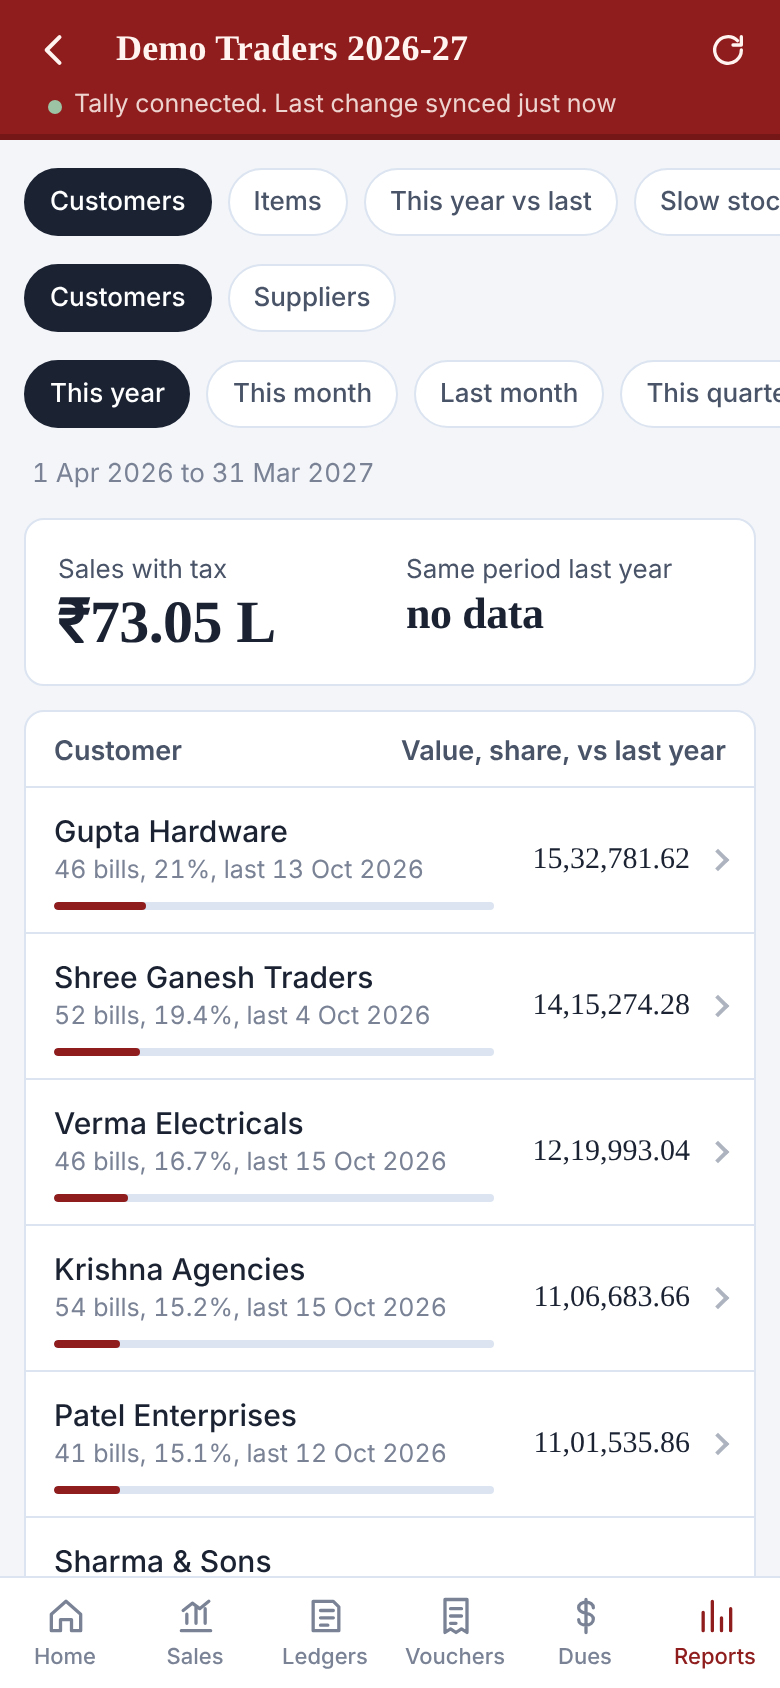
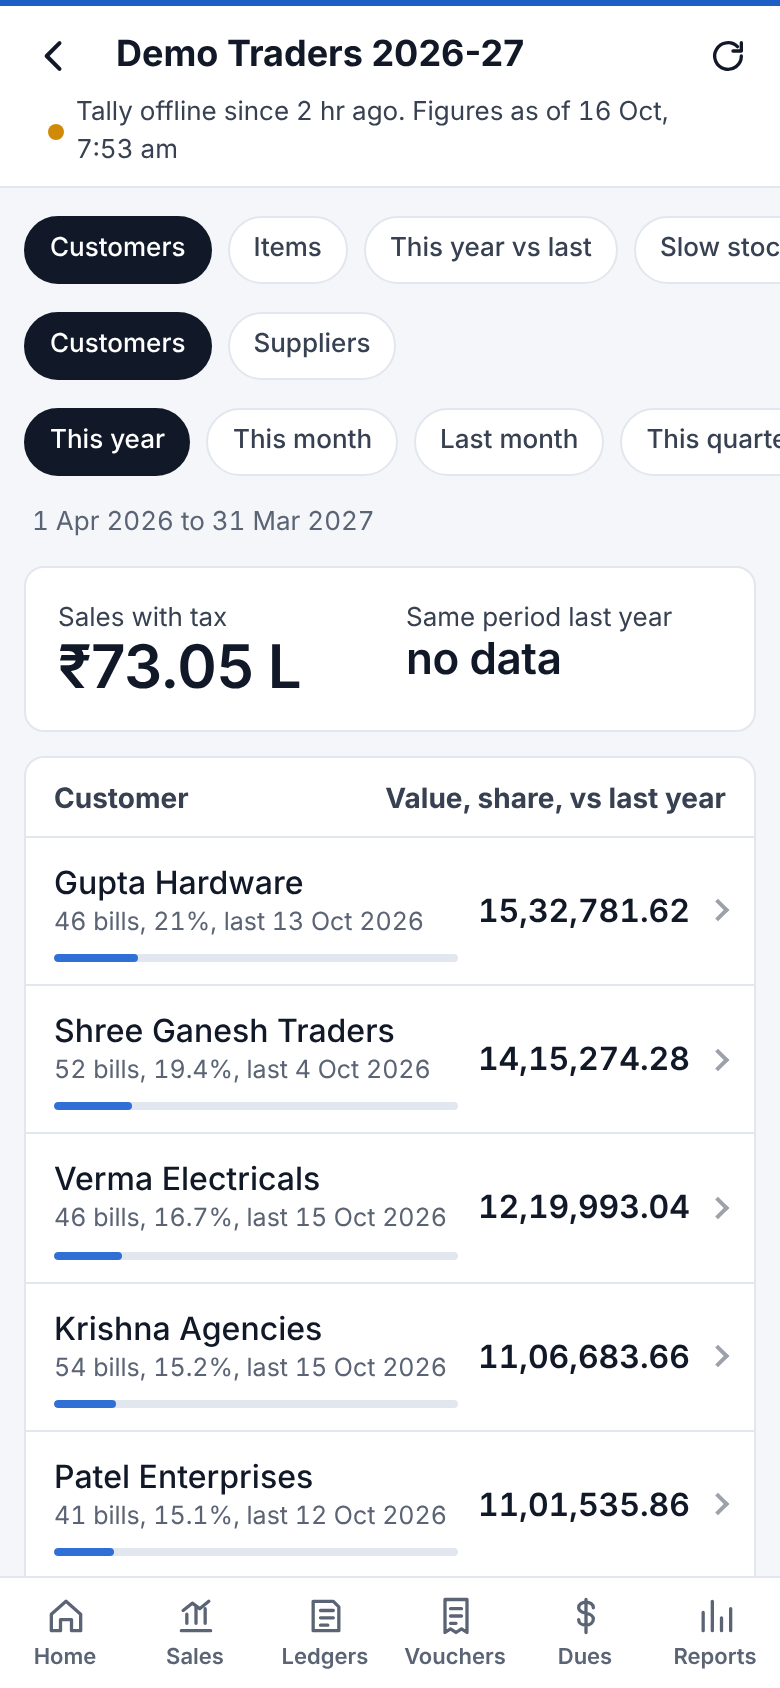
Version 2.6.1: brighter look, phone and computer layouts
- Bright, high-contrast light theme; always opens light (dark only
  when chosen in the app, no longer from the phone's setting).
- Dr amounts red, Cr amounts green.
- Ledger shows the statement first, then pending bills.
- Separate wide-screen layout: menu down the left with the main
  reports, Home in two columns, ledger statement with bills beside it.
- Phones always get the phone layout, even with Chrome's Desktop site on.
- Guide screenshots refreshed.

Claude-Session: https://claude.ai/code/session_019emK1HKKRcUoX1x8Zm8hMC

diff --git a/server/app/static/style.css b/server/app/static/style.css
@@ -1,36 +1,34 @@
 :root {
-  --cover: #8f1d1d;        /* bahi-khata cloth red */
-  --cover-ink: #fff4ef;
+  /* bright ledger: white pages, near-black ink, one clear blue for anything you can tap */
+  --head: #ffffff;         /* header */
+  --head-ink: #111827;
+  --cover: #1d5fc4;        /* accent: buttons, links, the tab you are on */
+  --cover-ink: #ffffff;
   --paper: #ffffff;
-  --sheet: #f3f5f9;        /* the desk the pages sit on */
-  --ink: #1b2333;          /* fountain-pen navy */
-  --ink-2: #4a5468;
-  --ink-3: #7a8396;
-  --rule: #dbe4f0;         /* pale blue ruling */
-  --margin: #e4a5a1;       /* red margin line */
-  --cr: #a8322d;
-  --dr: #1b2333;
-  --good: #1f6f4a;
-  --bar: #8f1d1d;
-  --focus: #2457c5;
-  --age0: #c9ced8; --age1: #f2c4c0; --age2: #e08c85; --age3: #bf4a42; --age4: #7d1a17;
-  --serif: "Source Serif 4", Georgia, "Times New Roman", serif;
+  --sheet: #f4f6f9;        /* the desk the pages sit on */
+  --ink: #111827;
+  --ink-2: #374151;
+  --ink-3: #5b6474;
+  --rule: #e2e7ef;
+  --margin: #e4a5a1;
+  --cr: #b42318;           /* credit / overdue: red, as in a ledger */
+  --dr: #111827;
+  --good: #157347;
+  --debit: #c0261a;
+  --credit: #157347;
+  --bar: #2f6fd6;
+  --bar2: #b9cdf1;         /* last year's bars */
+  --focus: #1d5fc4;
+  --age0: #c9ced8; --age1: #f7c9c4; --age2: #ea958c; --age3: #c9473d; --age4: #8a1c15;
+  --serif: "Hanken Grotesk", system-ui, -apple-system, "Segoe UI", Roboto, sans-serif;
   --sans: "Hanken Grotesk", system-ui, -apple-system, "Segoe UI", Roboto, sans-serif;
   color-scheme: light;
 }
-@media (prefers-color-scheme: dark) {
-  :root:not([data-theme="light"]) {
-    --cover: #5e1414; --cover-ink: #ffece6; --paper: #171c26; --sheet: #0f131a;
-    --ink: #e7eaf1; --ink-2: #b3bacb; --ink-3: #8a93a8; --rule: #2a3344; --margin: #7d3532;
-    --cr: #f08a82; --dr: #e7eaf1; --good: #6cc89a; --bar: #e0716a; --focus: #8fb0ff;
-    --age0: #4a5263; --age1: #5c2c2a; --age2: #8e3a35; --age3: #c9564d; --age4: #f19a92;
-    color-scheme: dark;
-  }
-}
+/* dark only when chosen in the app (Reports, Switch light/dark) - never just because the phone is in dark mode */
 :root[data-theme="dark"] {
-  --cover: #5e1414; --cover-ink: #ffece6; --paper: #171c26; --sheet: #0f131a;
-  --ink: #e7eaf1; --ink-2: #b3bacb; --ink-3: #8a93a8; --rule: #2a3344; --margin: #7d3532;
-  --cr: #f08a82; --dr: #e7eaf1; --good: #6cc89a; --bar: #e0716a; --focus: #8fb0ff;
+  --head: #161b24; --head-ink: #eef1f6; --cover: #82aaff; --cover-ink: #0d1117; --paper: #1a202b; --sheet: #10141b;
+  --ink: #eef1f6; --ink-2: #c5ccda; --ink-3: #9ba5b8; --rule: #2c3546; --margin: #7d3532;
+  --cr: #ff8f85; --dr: #eef1f6; --good: #6fd19e; --debit: #ff8f85; --credit: #6fd19e; --bar: #6f9cf0; --bar2: #34476b; --focus: #82aaff;
   --age0: #4a5263; --age1: #5c2c2a; --age2: #8e3a35; --age3: #c9564d; --age4: #f19a92;
   color-scheme: dark;
 }
@@ -39,7 +37,7 @@
 html { -webkit-text-size-adjust: 100%; }
 body {
   margin: 0; background: var(--sheet); color: var(--ink);
-  font: 400 15px/1.45 var(--sans); font-variant-numeric: tabular-nums;
+  font: 400 16px/1.45 var(--sans); font-variant-numeric: tabular-nums;
   padding-bottom: calc(68px + env(safe-area-inset-bottom));
 }
 button, input, select { font: inherit; color: inherit; }
@@ -49,21 +47,21 @@ a { color: inherit; }
 
 /* ---------- cover (header) */
 #cover {
-  position: sticky; top: 0; z-index: 5; background: var(--cover); color: var(--cover-ink);
+  position: sticky; top: 0; z-index: 5; background: var(--head); color: var(--head-ink);
   padding: calc(env(safe-area-inset-top) + 6px) 8px 8px;
-  box-shadow: inset 0 -3px 0 rgba(0,0,0,.18);
+  border-top: 3px solid var(--cover); border-bottom: 1px solid var(--rule);
 }
 .cover-row { display: flex; align-items: center; gap: 4px; max-width: 680px; margin: 0 auto; }
 .company {
   flex: 1; min-width: 0; text-align: left; background: none; border: 0; padding: 6px 8px;
-  font: 600 18px/1.2 var(--serif); letter-spacing: .005em; white-space: nowrap; overflow: hidden; text-overflow: ellipsis;
+  font: 700 18px/1.2 var(--sans); letter-spacing: 0; white-space: nowrap; overflow: hidden; text-overflow: ellipsis;
   cursor: pointer;
 }
 .icon-btn { background: none; border: 0; padding: 8px; display: grid; place-items: center; cursor: pointer; border-radius: 8px; color: inherit; }
-.icon-btn:active { background: rgba(255,255,255,.12); }
-.status { max-width: 680px; margin: 0 auto; padding: 0 16px; font-size: 12.5px; opacity: .85; display: flex; align-items: center; gap: 6px; }
-.status .dot { width: 7px; height: 7px; border-radius: 50%; background: #9fe0bb; flex: none; }
-.status .dot.off { background: #f4c06a; }
+.icon-btn:active { background: var(--rule); }
+.status { max-width: 680px; margin: 0 auto; padding: 0 16px; font-size: 13px; color: var(--ink-2); display: flex; align-items: center; gap: 6px; }
+.status .dot { width: 8px; height: 8px; border-radius: 50%; background: #1f9d55; flex: none; }
+.status .dot.off { background: #d08a0a; }
 .offline { background: #fff3cd; color: #5c4400; font-size: 13px; padding: 8px 16px; text-align: center; }
 
 main { max-width: 680px; margin: 0 auto; padding: 14px 12px 24px; outline: none; }
@@ -75,26 +73,26 @@ main { max-width: 680px; margin: 0 auto; padding: 14px 12px 24px; outline: none;
 }
 #tabs a {
   flex: 1; display: flex; flex-direction: column; align-items: center; gap: 2px; padding: 8px 0 7px;
-  text-decoration: none; font-size: 11.5px; font-weight: 500; color: var(--ink-3);
+  text-decoration: none; font-size: 12px; font-weight: 600; color: var(--ink-3);
 }
 #tabs svg { width: 22px; height: 22px; fill: none; stroke: currentColor; stroke-width: 1.8; stroke-linecap: round; stroke-linejoin: round; }
 #tabs a.on { color: var(--cover); }
-@media (prefers-color-scheme: dark) { :root:not([data-theme="light"]) #tabs a.on { color: var(--bar); } }
 
 /* ---------- pages & blocks */
 .page { background: var(--paper); border-radius: 10px; margin-bottom: 12px; overflow: hidden; border: 1px solid var(--rule); }
 .page > h2, .block-title {
-  font: 600 13.5px/1.3 var(--sans); color: var(--ink-2); margin: 0; padding: 12px 14px 8px;
+  font: 700 14px/1.3 var(--sans); color: var(--ink-2); margin: 0; padding: 12px 14px 8px;
   display: flex; justify-content: space-between; align-items: baseline; gap: 8px;
 }
 .block-title a, .page > h2 a { font-weight: 500; color: var(--cover); text-decoration: none; font-size: 13px; }
-@media (prefers-color-scheme: dark) { :root:not([data-theme="light"]) .block-title a, :root:not([data-theme="light"]) .vhead .vtype { color: var(--bar); } }
 h1.title { font: 600 22px/1.25 var(--serif); margin: 2px 4px 4px; overflow-wrap: anywhere; }
 .subtitle { color: var(--ink-3); font-size: 13px; margin: 0 4px 12px; }
 
-.amt { font-family: var(--serif); font-weight: 500; white-space: nowrap; }
-.amt .side { font-family: var(--sans); font-size: .72em; font-weight: 600; margin-left: 3px; color: var(--ink-3); }
-.amt.cr .side { color: var(--cr); }
+.amt { font-family: var(--sans); font-weight: 600; white-space: nowrap; }
+.amt .side { font-family: var(--sans); font-size: .72em; font-weight: 700; margin-left: 3px; color: inherit; }
+/* Dr in red, Cr in green */
+.amt.dr { color: var(--debit); }
+.amt.cr { color: var(--credit); }
 
 /* hero: what you'll receive vs. what you owe */
 .hero { padding: 16px 16px 14px; display: grid; grid-template-columns: 1fr 1fr; gap: 4px 16px; }
@@ -318,3 +316,45 @@ a.bill:active { background: var(--rule); }
 .est.bad { color: var(--cr); }
 .entrybar .actions { padding: 12px 14px; }
 .login input[type=text] { margin-bottom: 8px; }
+
+/* ---------- computer (wide screen) layout: menu down the left, content uses the width */
+.wide-only { display: none !important; }
+@media (min-width: 1000px) and (pointer: fine), (min-width: 1100px) {
+  body { padding-bottom: 0; padding-left: 240px; font-size: 15.5px; }
+  #cover { padding-left: 24px; padding-right: 24px; }
+  .cover-row, .status { max-width: 1180px; margin-left: 0; }
+  #tabs {
+    inset: 0 auto 0 0; width: 240px; flex-direction: column; justify-content: flex-start; overflow-y: auto;
+    border-top: 0; border-right: 1px solid var(--rule); padding: 14px 10px 20px; gap: 2px;
+  }
+  #tabs::before { content: "Bahi"; font: 800 22px/1 var(--sans); color: var(--cover); padding: 6px 12px 18px; }
+  #tabs a { flex: none; flex-direction: row; gap: 12px; padding: 10px 12px; font-size: 15px; font-weight: 600; color: var(--ink-2); border-radius: 8px; }
+  #tabs a:hover { background: var(--sheet); }
+  #tabs a.on { background: color-mix(in srgb, var(--cover) 10%, transparent); color: var(--cover); }
+  #tabs a[hidden] { display: none !important; }
+  #tabs svg { width: 20px; height: 20px; }
+  .wide-only { display: flex !important; }
+  .wide-only[hidden] { display: none !important; }
+  .navhead { font-size: 12px; font-weight: 700; letter-spacing: .06em; text-transform: uppercase; color: var(--ink-3); padding: 18px 12px 6px; }
+  main { max-width: 1180px; margin: 0; padding: 22px 28px 40px; }
+  h1.title { font-size: 26px; }
+  .hero .big { font-size: 34px; }
+  .toolbar { margin: 0 0 14px; padding: 0; flex-wrap: wrap; overflow: visible; }
+
+  /* Home: two columns of cards */
+  main[data-view="home"] { display: grid; grid-template-columns: 1fr 1fr; gap: 16px; align-items: start; }
+  main[data-view="home"] > * { margin: 0; }
+  main[data-view="home"] > .entrybar, main[data-view="home"] > h1 { grid-column: 1 / -1; }
+
+  /* Ledger: statement on the left, pending bills beside it */
+  main[data-view="ledger"] { display: grid; grid-template-columns: minmax(0, 1fr) 380px; column-gap: 18px; align-items: start; }
+  main[data-view="ledger"] > * { grid-column: 1 / -1; }
+  main[data-view="ledger"] > .stmt { grid-column: 1; }
+  main[data-view="ledger"] > .billsec { grid-column: 2; position: sticky; top: 90px; }
+
+  /* lists read better a little roomier */
+  .row { padding-top: 12px; padding-bottom: 12px; }
+  .row:hover, a.bill:hover, .entry:hover { background: var(--sheet); }
+  .login { min-height: 80vh; }
+  body:has(.login) { padding-left: 0; }
+}

diff --git a/server/app/static/app.js b/server/app/static/app.js
@@ -1,6 +1,6 @@
 /* Bahi — phone app for Tally data synced to your server */
 "use strict";
-const APP_VERSION = "2.6";
+const APP_VERSION = "2.6.1";
 
 const $ = (s, el = document) => el.querySelector(s);
 const view = $("#view");
@@ -14,7 +14,8 @@ const ENTRY = { receipt: ["Receipt", "e_receipt"], payment: ["Payment", "e_payme
 const entryKinds = () => Object.keys(ENTRY).filter((k) => can(ENTRY[k][1]));
 function applyTabs() {
   const show = { home: true, sales: can("sales"), parties: canLedgers(), vouchers: can("vouchers"), dues: can("dues"), reports: true };
-  document.querySelectorAll("#tabs a").forEach((a) => a.hidden = !show[a.dataset.tab]);
+  document.querySelectorAll("#tabs a[data-tab]").forEach((a) => a.hidden = !show[a.dataset.tab]);
+  document.querySelectorAll("#tabs a[data-need]").forEach((a) => a.hidden = !a.dataset.need.split(" ").some((p) => p === "owner" ? S.me.owner : can(p)));
 }
 function entryBar() {
   const ks = entryKinds();
@@ -165,7 +166,9 @@ function setTitle(back) {
   const tab = (location.hash.split("/")[1] || "home").split("?")[0];
   const map = { "": "home", ledger: "parties", group: "parties", item: "reports", daybook: "reports", voucher: "vouchers", pl: "reports", gst: "reports", check: "reports", settings: "reports", analysis: "reports", bs: "reports", cashbook: "reports", collect: "dues", entries: "reports", new: "home", day: "sales", stock: "reports", groups: "reports" };
   const on = map[tab] || tab;
-  document.querySelectorAll("#tabs a").forEach((a) => a.classList.toggle("on", a.dataset.tab === on));
+  document.querySelectorAll("#tabs a[data-tab]").forEach((a) => a.classList.toggle("on", a.dataset.tab === on));
+  document.querySelectorAll("#tabs a[data-route]").forEach((a) => a.classList.toggle("on", a.dataset.route === tab));
+  if (document.querySelector(`#tabs a[data-route="${tab}"]`)) document.querySelectorAll("#tabs a[data-tab]").forEach((a) => a.classList.remove("on"));
 }
 
 /* ---------------------------------------------------------------- views */
@@ -339,14 +342,12 @@ async function vLedger(name) {
       <div class="totals">
         <div><div class="label">Opening</div>${drcr(d.opening)}</div>
         <div><div class="label">Closing</div>${drcr(d.closing)}</div>
-        <div><div class="label">Debits</div>${money(d.debit)}</div>
-        <div><div class="label">Credits</div>${money(d.credit)}</div>
+        <div><div class="label">Debits</div>${money(d.debit, "dr")}</div>
+        <div><div class="label">Credits</div>${money(d.credit, "cr")}</div>
       </div>
     </section>
-    ${pending.length ? `<section class="page"><div class="block-title">Pending bills <span>${overdue.length ? `${overdue.length} overdue` : ""}</span></div>${billRows(pending.slice(0, 5))}
-      ${pending.length > 5 ? `<div id="morebills" hidden>${billRows(pending.slice(5))}</div><button class="row" id="showbills" style="justify-content:center;color:var(--ink-2);font-weight:500">Show all ${pending.length} bills</button>` : ""}</section>` : ""}
     ${d.entries.length > 1 ? sortChips("esorts", [["old", "Oldest first"], ["new", "Newest first"], ["amount", "Largest amount"]], S.esort) : ""}
-    <section class="page ruled">
+    <section class="page ruled stmt">
       <div class="carry"><span>Opening balance</span>${drcr(d.opening)}</div>
       ${sortEntries(d.entries).map((e) => `<a class="entry" href="#/voucher/${e.id}">
           <span class="d">${fdate(e.date)}</span>
@@ -354,7 +355,9 @@ async function vLedger(name) {
           <span class="v">${h(e.vtype)} ${h(e.number)}</span><span class="bal">Bal ${drcr(e.balance)}</span>
         </a>`).join("") || '<div class="empty">No entries in this period.</div>'}
       <div class="closing"><span>Closing balance</span>${drcr(d.closing)}</div>
-    </section>`;
+    </section>
+    ${pending.length ? `<section class="page billsec"><div class="block-title">Pending bills <span>${overdue.length ? `${overdue.length} overdue` : ""}</span></div>${billRows(pending.slice(0, 5))}
+      ${pending.length > 5 ? `<div id="morebills" hidden>${billRows(pending.slice(5))}</div><button class="row" id="showbills" style="justify-content:center;color:var(--ink-2);font-weight:500">Show all ${pending.length} bills</button>` : ""}</section>` : ""}`;
   wirePeriod(d.from, d.to);
   $("#sharepdf").onclick = () => sharePdf(pdfUrl, `${L.name} statement`);
   view.querySelectorAll("#esorts [data-sort]").forEach((b) => b.onclick = () => {
@@ -527,7 +530,7 @@ function vReports() {
   if ($("#syncrow")) $("#syncrow").onclick = () => syncNow();
   $("#logout").onclick = async () => { await fetch("/api/logout"); location.hash = "#/"; showLogin(); };
   $("#theme").onclick = () => {
-    const cur = document.documentElement.dataset.theme || (matchMedia("(prefers-color-scheme: dark)").matches ? "dark" : "light");
+    const cur = document.documentElement.dataset.theme || "light";
     const next = cur === "dark" ? "light" : "dark";
     document.documentElement.dataset.theme = next;
     try { localStorage.setItem("theme", next); } catch (e) {}
@@ -761,7 +764,7 @@ async function vAnalysis(tab) {
         <div><div class="label">${d.last_label}</div><div class="big" style="font-size:22px">${d.has_prev ? short(d.last_total) : "not synced"}</div></div></div>
         ${ch !== null ? `<div class="note">${ch >= 0 ? "Up" : "Down"} ${Math.abs(ch)}% on last year so far (last year's figure is the full year).</div>` : ""}
         <div class="chart" id="ychart"></div>
-        <div class="legend"><span><i style="background:var(--bar)"></i>${d.this_label}</span><span><i style="background:var(--age1)"></i>${d.last_label}</span></div></section>
+        <div class="legend"><span><i style="background:var(--bar)"></i>${d.this_label}</span><span><i style="background:var(--bar2)"></i>${d.last_label}</span></div></section>
       <section class="page"><div class="block-title"><span>Month</span><span>${d.this_label} / ${d.last_label}</span></div>
       ${d.months.map((m) => { const c = m.last ? Math.round((m.this - m.last) / m.last * 100) : null;
         return `<div class="row" style="cursor:default"><div class="main name">${mon(m.month)}</div><div class="end">${money(m.this)}<div class="meta">${d.has_prev ? money(m.last) : ""}${c !== null && m.this ? ` <span class="${c >= 0 ? "up" : "down"}">${c >= 0 ? "▲" : "▼"}${Math.abs(c)}%</span>` : ""}</div></div></div>`; }).join("")}
@@ -793,7 +796,7 @@ function drawYears(el, rows) {
     const x0 = i * slot + (slot - bw * 2 - 2) / 2;
     const one = (v, x, fill, label) => { const hh = Math.max(v > 0 ? 2 : 0, (v / max) * (H - padB - padT)); const y = H - padB - hh, rad = Math.min(3, bw / 2, hh);
       return hh ? `<path d="M${x},${H - padB} V${y + rad} Q${x},${y} ${x + rad},${y} H${x + bw - rad} Q${x + bw},${y} ${x + bw},${y + rad} V${H - padB} Z" fill="${fill}"><title>${label}: ${rupees(v, false)}</title></path>` : ""; };
-    return one(r.last, x0, "var(--age1)", MON[+r.month - 1] + " last year") + one(r.this, x0 + bw + 2, "var(--bar)", MON[+r.month - 1] + " this year") +
+    return one(r.last, x0, "var(--bar2)", MON[+r.month - 1] + " last year") + one(r.this, x0 + bw + 2, "var(--bar)", MON[+r.month - 1] + " this year") +
       `<text x="${i * slot + slot / 2}" y="${H - 6}" text-anchor="middle" font-size="11" fill="var(--ink-3)">${MON[+r.month - 1][0]}</text>`;
   }).join("");
   el.innerHTML = `<svg viewBox="0 0 ${W} ${H}" aria-label="Monthly sales, this year against last year"><line x1="0" x2="${W}" y1="${H - padB}" y2="${H - padB}" stroke="var(--rule)"/>${bars}</svg>`;
@@ -1358,6 +1361,7 @@ async function route() {
     view.innerHTML = '<div class="empty">No data yet. Run Setup on the Tally PC to send your first sync.</div>';
     return;
   }
+  view.dataset.view = parts[0] || "home";
   loading();
   try {
     switch (parts[0]) {

diff --git a/server/app/static/index.html b/server/app/static/index.html
@@ -4,13 +4,28 @@
 <meta charset="utf-8">
 <meta name="viewport" content="width=device-width, initial-scale=1, viewport-fit=cover">
 <title>Bahi — Tally on your phone</title>
-<meta name="theme-color" content="#8f1d1d">
+<meta name="theme-color" content="#ffffff">
+<script>
+/* Chrome's "Desktop site" lays the page out 980px wide and shrinks it. On a phone, scale it back
+   up so the app always shows its phone layout. */
+(function () {
+  function fit() {
+    try {
+      var de = document.documentElement, sw = Math.min(screen.width, window.outerWidth || screen.width);
+      de.style.zoom = "";
+      var touch = matchMedia("(pointer: coarse)").matches || "ontouchstart" in window;
+      if (touch && sw > 0 && sw < 820 && window.innerWidth > sw * 1.3) de.style.zoom = (window.innerWidth / sw).toFixed(3);
+    } catch (e) {}
+  }
+  fit(); addEventListener("resize", fit); addEventListener("orientationchange", function () { setTimeout(fit, 300); });
+})();
+</script>
 <link rel="manifest" href="/manifest.webmanifest">
 <link rel="icon" href="/icon.svg" type="image/svg+xml">
 <link rel="apple-touch-icon" href="/icon-192.png">
 <link rel="preconnect" href="https://fonts.googleapis.com">
 <link rel="preconnect" href="https://fonts.gstatic.com" crossorigin>
-<link href="https://fonts.googleapis.com/css2?family=Hanken+Grotesk:wght@400;500;600;700&family=Source+Serif+4:opsz,wght@8..60,500;8..60,600&display=swap" rel="stylesheet">
+<link href="https://fonts.googleapis.com/css2?family=Hanken+Grotesk:wght@400;500;600;700&display=swap" rel="stylesheet">
 <link rel="stylesheet" href="/style.css">
 </head>
 <body>
@@ -35,6 +50,16 @@
   <a href="#/vouchers" data-tab="vouchers"><svg viewBox="0 0 24 24"><path d="M6 3h12v18l-3-2-3 2-3-2-3 2z M9 8h6 M9 12h6 M9 16h3"/></svg>Vouchers</a>
   <a href="#/dues" data-tab="dues"><svg viewBox="0 0 24 24"><path d="M12 3v18 M16 7.5c0-1.9-1.8-3-4-3s-4 1.1-4 3 1.8 2.6 4 3 4 1.2 4 3.2-1.8 3.3-4 3.3-4-1.2-4-3"/></svg>Dues</a>
   <a href="#/reports" data-tab="reports"><svg viewBox="0 0 24 24"><path d="M5 20V10 M10 20V4 M15 20v-7 M20 20V8"/></svg>Reports</a>
+  <div class="wide-only navhead">Reports</div>
+  <a class="wide-only" href="#/bs" data-route="bs" data-need="accounts"><svg viewBox="0 0 24 24"><path d="M4 5h16v14H4z M12 5v14 M6 9h4 M14 9h4 M6 13h4 M14 13h4"/></svg>Balance Sheet</a>
+  <a class="wide-only" href="#/pl" data-route="pl" data-need="accounts"><svg viewBox="0 0 24 24"><path d="M4 19h16 M7 15l4-4 3 3 5-6"/></svg>Profit &amp; Loss</a>
+  <a class="wide-only" href="#/cashbook" data-route="cashbook" data-need="accounts"><svg viewBox="0 0 24 24"><path d="M3 7h18v10H3z M12 12m-2.5 0a2.5 2.5 0 1 0 5 0a2.5 2.5 0 1 0-5 0"/></svg>Cash and bank</a>
+  <a class="wide-only" href="#/analysis" data-route="analysis" data-need="accounts"><svg viewBox="0 0 24 24"><path d="M5 20V10 M10 20V4 M15 20v-7 M20 20V8"/></svg>Sales analysis</a>
+  <a class="wide-only" href="#/gst" data-route="gst" data-need="accounts"><svg viewBox="0 0 24 24"><path d="M6 3h12v18H6z M9 8h6 M9 12h6 M9 16h3"/></svg>GST summary</a>
+  <a class="wide-only" href="#/stock" data-route="stock" data-need="stock"><svg viewBox="0 0 24 24"><path d="M4 8l8-4 8 4v8l-8 4-8-4z M4 8l8 4 8-4 M12 12v8"/></svg>Stock</a>
+  <a class="wide-only" href="#/collect" data-route="collect" data-need="dues"><svg viewBox="0 0 24 24"><path d="M12 7v5l3 2 M12 21a9 9 0 1 0 0-18 9 9 0 0 0 0 18"/></svg>Follow-up list</a>
+  <a class="wide-only" href="#/entries" data-route="entries" data-need="owner e_receipt e_payment e_order"><svg viewBox="0 0 24 24"><path d="M12 5v14 M5 12h14"/></svg>Entries from phone</a>
+  <a class="wide-only" href="#/settings" data-route="settings" data-need="owner"><svg viewBox="0 0 24 24"><path d="M12 9a3 3 0 1 0 0 6 3 3 0 0 0 0-6 M19 12h2 M3 12h2 M12 3v2 M12 19v2 M17 7l1.4-1.4 M5.6 18.4L7 17 M17 17l1.4 1.4 M5.6 5.6L7 7"/></svg>Settings</a>
 </nav>
 <dialog id="sheet"></dialog>
 <script src="/app.js"></script>

diff --git a/server/app/static/sw.js b/server/app/static/sw.js
@@ -1,5 +1,5 @@
 /* Bahi service worker: always try the server first, fall back to the saved copy when offline */
-const SHELL = "bahi-shell-v8", DATA = "bahi-data-v1";
+const SHELL = "bahi-shell-v10", DATA = "bahi-data-v1";
 const FILES = ["/", "/index.html", "/style.css", "/app.js", "/manifest.webmanifest", "/icon.svg", "/icon-192.png", "/icon-512.png"];
 
 self.addEventListener("install", (e) => {

diff --git a/server/app/main.py b/server/app/main.py
@@ -39,7 +39,7 @@ APP_PASSWORD = os.environ.get("APP_PASSWORD", "")
 SYNC_TOKEN = os.environ.get("SYNC_TOKEN", "")
 PORT = int(os.environ.get("PORT", "8780"))
 SESSION_DAYS = 30
-APP_VERSION = "2.6"
+APP_VERSION = "2.6.1"
 MAX_PART = 200 * 1024 * 1024
 RUN_RE = re.compile(r"^[A-Za-z0-9_-]{6,64}$")
 

diff --git a/docs/USING.md b/docs/USING.md
@@ -10,6 +10,13 @@ The bar at the bottom has six sections: **Home, Sales, Ledgers, Vouchers, Dues a
 
 ---
 
+## Look and layout
+
+- The app always opens in the **light** theme, whatever your phone's dark-mode setting. To use dark, tap **Switch light/dark** at the bottom of **Reports**.
+- Amounts marked **Dr** are red and **Cr** are green.
+- On a **phone** the sections are tabs along the bottom. Even if Chrome's *Desktop site* is switched on, Bahi shows its phone layout.
+- On a **computer** the sections, and the main reports, are in a menu down the left. Home shows its cards in two columns, and a ledger shows the statement with pending bills beside it.
+
 ## Home
 
 <img src="images/home.png" width="260" align="right" alt="Home screen">

diff --git a/README.md b/README.md
@@ -11,6 +11,10 @@ Bahi is a free, self-hosted alternative to apps like Credflow and Livekeeping. A
 </tr>
 </table>
 
+On a computer, Bahi switches to a wide layout with a menu down the left:
+
+<img src="docs/images/desktop-ledger.png" width="720" alt="Ledger on a computer: statement with pending bills beside it">
+
 *Screenshots use made-up demo data.*
 
 ## What you get
